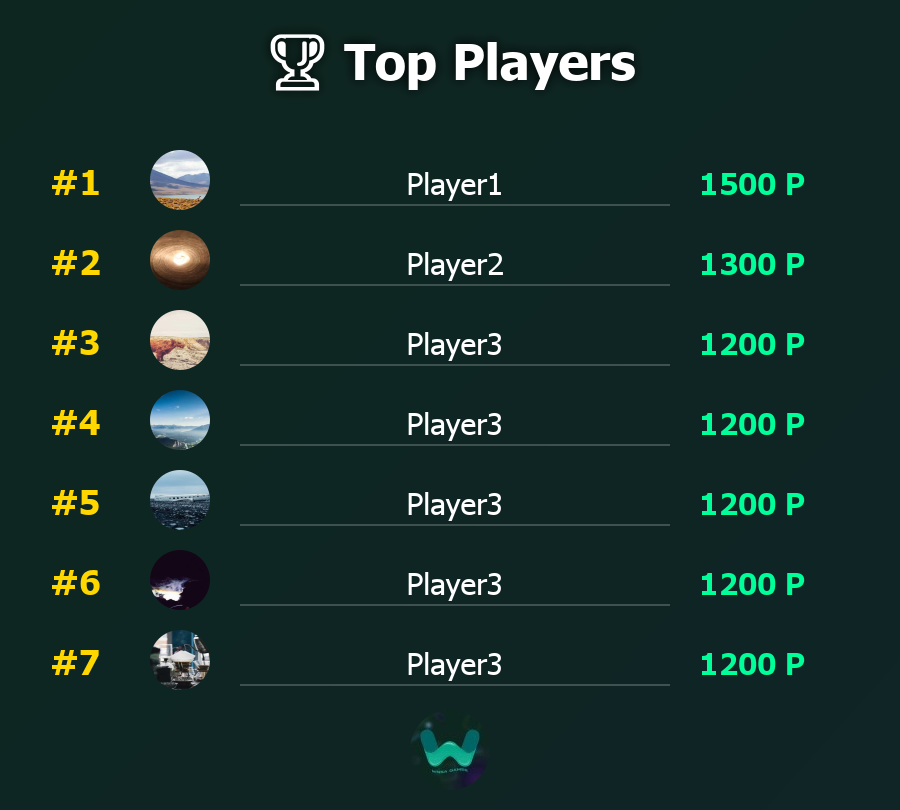
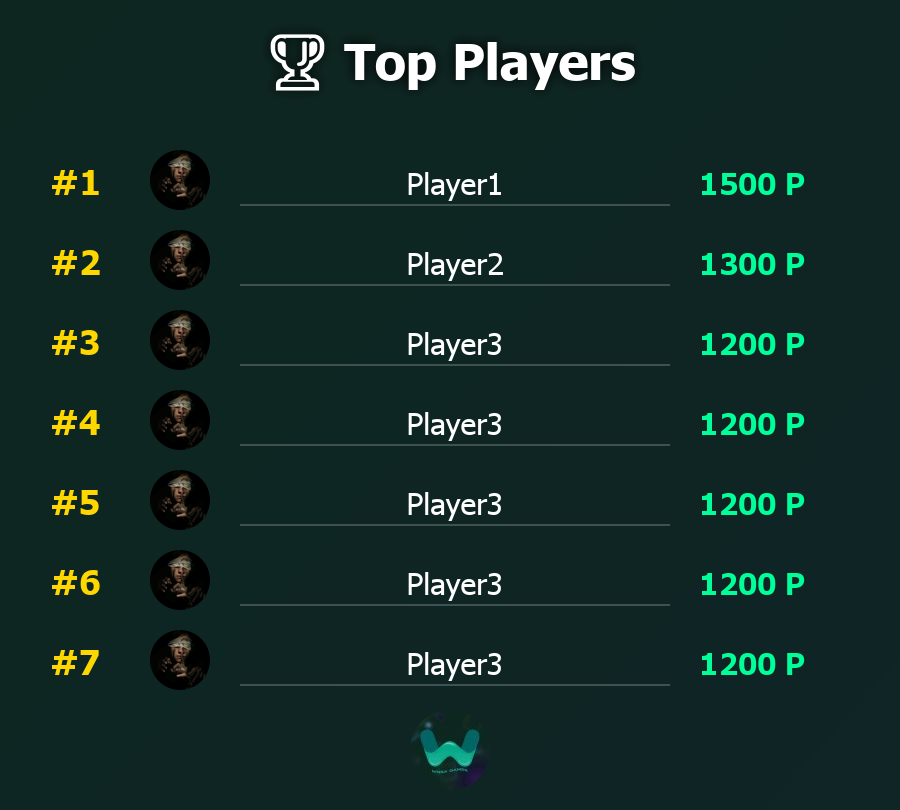
updated

Changed region(s): [[0.1556, 0.1852, 0.2489, 0.8642]]

diff --git a/events/messageCreate/showPoints.js b/events/messageCreate/showPoints.js
@@ -1,5 +1,6 @@
 const { Message, EmbedBuilder, PermissionsBitField } = require("discord.js");
 const { prefix } = require("../../utils/MessagePrefix");
+const {generateBalancedLeaderboardImage} = require("../../utils/imagesCreating/generateLeaderboardImage")
 const {
     getPlayerPoints,
     resetAllPlayersPoints,
@@ -110,20 +111,29 @@ async function handleResetPoints(message) {
 async function handleTopPlayers(message) {
     
         const { topPlayers } = await getTopPlayers(10);
-        const topThreeEmbed = new EmbedBuilder()
-            .setColor('#FFD700')
-            .setTitle('أفضل 10 لاعبين :')
-            .setDescription('أفضل 10 لاعبين حتى الان')
-            .addFields(
-                topPlayers.map((player, index) => ({
-                    name: `${index + 1} المركز ال`,
-                    value: `<@${player.discord_id}> النقاط: ${player.points}  💎`,
-                }))
-            )
-            .setTimestamp()
-            .setFooter({ text: 'Wansa' });
+        const playersData = await Promise.all(topPlayers.map(async (player) => {
+            const user = await client.users.fetch(player.discord_id);
+            const imageUrl = user.displayAvatarURL({ extension:"png", size: 128 });
+            const displayName = user.displayName;
+            return { ...player, avatarURL:imageUrl, username:displayName };
+        }));   
+        const topImage = await generateBalancedLeaderboardImage(playersData);
+        // const topThreeEmbed = new EmbedBuilder()
+        //     .setColor('#FFD700')
+        //     .setTitle('أفضل 10 لاعبين :')
+        //     .setDescription('أفضل 10 لاعبين حتى الان')
+        //     .addFields(
+        //         topPlayers.map((player, index) => ({
+        //             name: `${index + 1} المركز ال`,
+        //             value: `<@${player.discord_id}> النقاط: ${player.points}  💎`,
+        //         }))
+        //     )
+        //     .setTimestamp()
+        //     .setFooter({ text: 'Wansa' });
 
-        await message.channel.send({ embeds: [topThreeEmbed] });
+        await message.channel.send({
+            files: [topImage]
+        });
     
 }
 

diff --git a/events/ready/updateLeaderboard.js b/events/ready/updateLeaderboard.js
@@ -11,9 +11,9 @@ async function execute(client) {
         const { topPlayers } = await getTopPlayers(3);
         const playersData = await Promise.all(topPlayers.map(async (player) => {
             const user = await client.users.fetch(player.discord_id);
-            const imageUrl = user.displayAvatarURL({ format: 'png', size: 128 });
+            const imageUrl = user.displayAvatarURL({ extension:"png", size: 128 });
             const displayName = user.displayName;
-            return { ...player, avatarURL, username:displayName };
+            return { ...player, avatarURL:imageUrl, username:displayName };
         }));        
             // const topPlayersString = topPlayers.map((player, index) => `${index + 1}. <@${player.discord_id}>: ${player.points} 💎`).join("\n");
 
@@ -23,7 +23,7 @@ async function execute(client) {
             const image = await generateBalancedLeaderboardImage(playersData);
             if (leaderboardMessage) {
                 await leaderboardMessage.edit({
-                    files: [{ attachment: image, name: "leaderboard.png" }]
+                    files: [image]
                 });
             } else {
                 const messages = await leaderboardChannel.messages.fetch({ limit: 1 });
@@ -32,11 +32,11 @@ async function execute(client) {
                 if (lastMessage && lastMessage.author.id === client.user.id) {
                     leaderboardMessage = lastMessage;
                     await leaderboardMessage.edit({
-                        files: [{ attachment: image, name: "leaderboard.png" }]
+                        files: [image]
                     });
                 } else {
                     leaderboardMessage = await leaderboardChannel.send({
-                        files: [{ attachment: image, name: "leaderboard.png" }]
+                        files: [image]
                     });
                 }
             }
@@ -47,7 +47,7 @@ async function execute(client) {
     updateLeaderboard();
 
     // Update every 3 minutes
-    setInterval(updateLeaderboard, 2 * 60 * 1000);
+    setInterval(updateLeaderboard, 30 * 1000);
 
 }
 

diff --git a/utils/imagesCreating/generateLeaderboardImage.js b/utils/imagesCreating/generateLeaderboardImage.js
@@ -83,7 +83,7 @@ async function generateBalancedLeaderboardImage(users) {
         ctx.fillText(`${user.points} P`, pointsX, yPos + avatarSize / 2 + 15);
     }
 
-
+    console.log(users)
 
     // Get the bot logo from the public folder
     const path = require('path');
@@ -112,26 +112,7 @@ async function generateBalancedLeaderboardImage(users) {
     return attachment;
 }
 
-// Example Usage
-(async () => {
-    // Example user data, this would be dynamically generated or fetched
-    const users = [
-        { username: 'Player1', points: 1500, avatarURL: 'https://picsum.photos/200/300' },
-        { username: 'Player2', points: 1300, avatarURL: 'https://picsum.photos/200/300' },
-        { username: 'Player3', points: 1200, avatarURL: 'https://picsum.photos/200/300' },
-        { username: 'Player3', points: 1200, avatarURL: 'https://picsum.photos/200/300' },
-        { username: 'Player3', points: 1200, avatarURL: 'https://picsum.photos/200/300' },
-        { username: 'Player3', points: 1200, avatarURL: 'https://picsum.photos/200/300' },
-        { username: 'Player3', points: 1200, avatarURL: 'https://picsum.photos/200/300' },
-        // Add more players as needed (up to 10)
-    ];
 
-    // Generate the leaderboard image
-    const imageBuffer = await generateBalancedLeaderboardImage(users);
 
-    // Save the image to a file (for testing purposes)
-    const fs = require('fs');
-    fs.writeFileSync('leaderboard.png', imageBuffer);
-})();
 
 module.exports = { generateBalancedLeaderboardImage };
